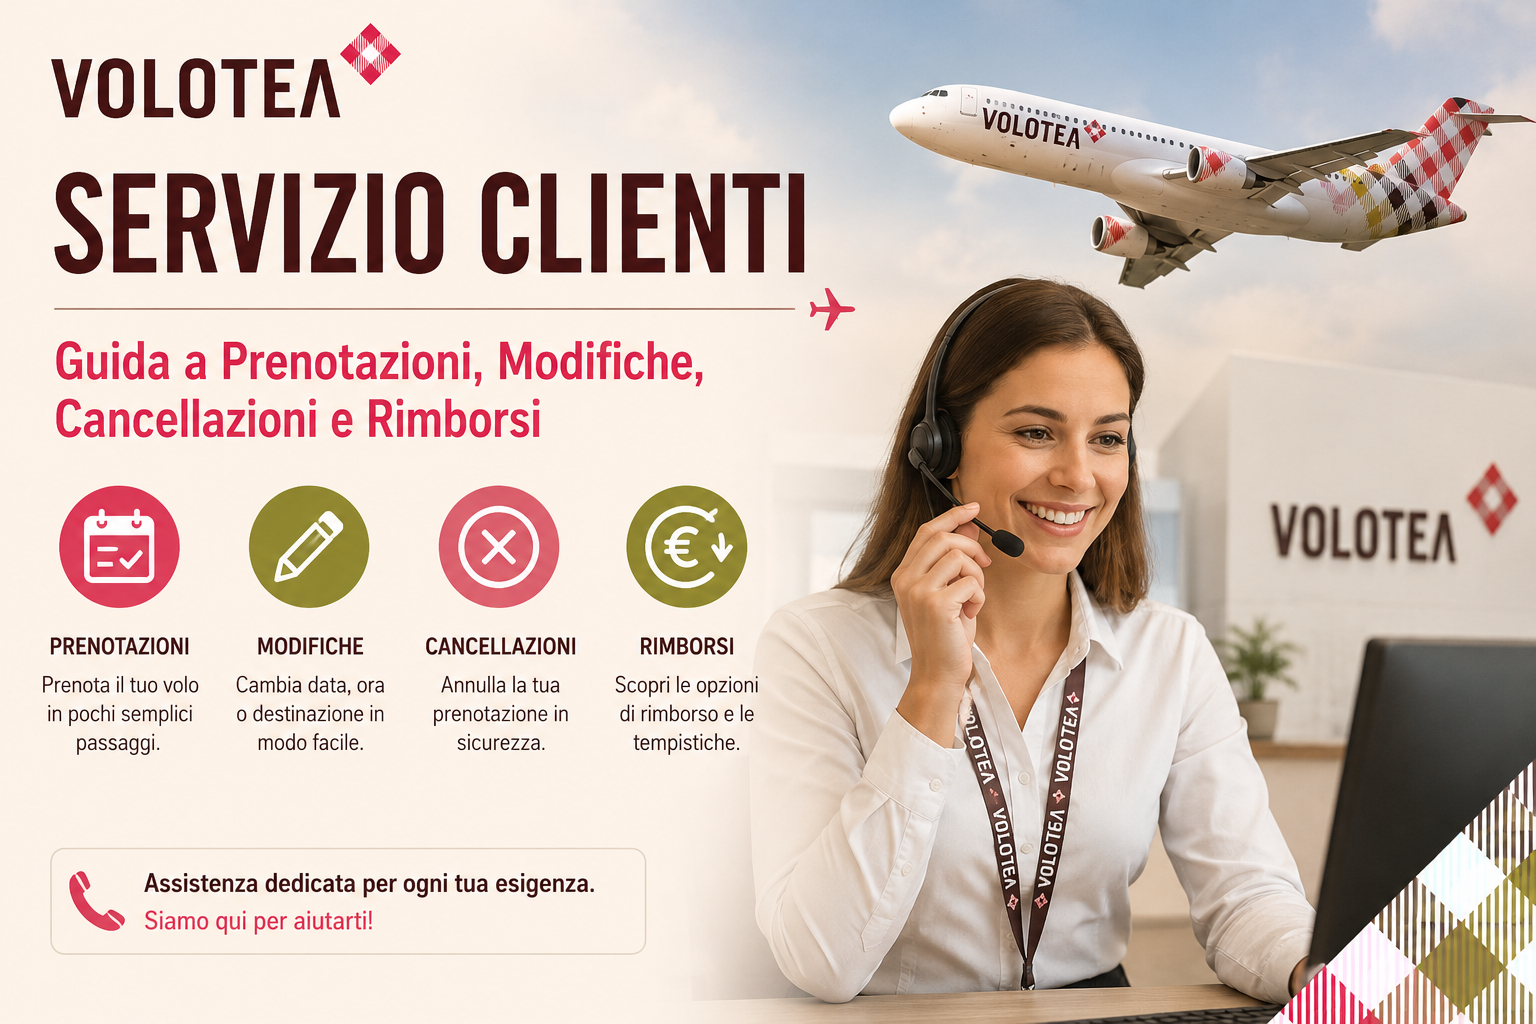
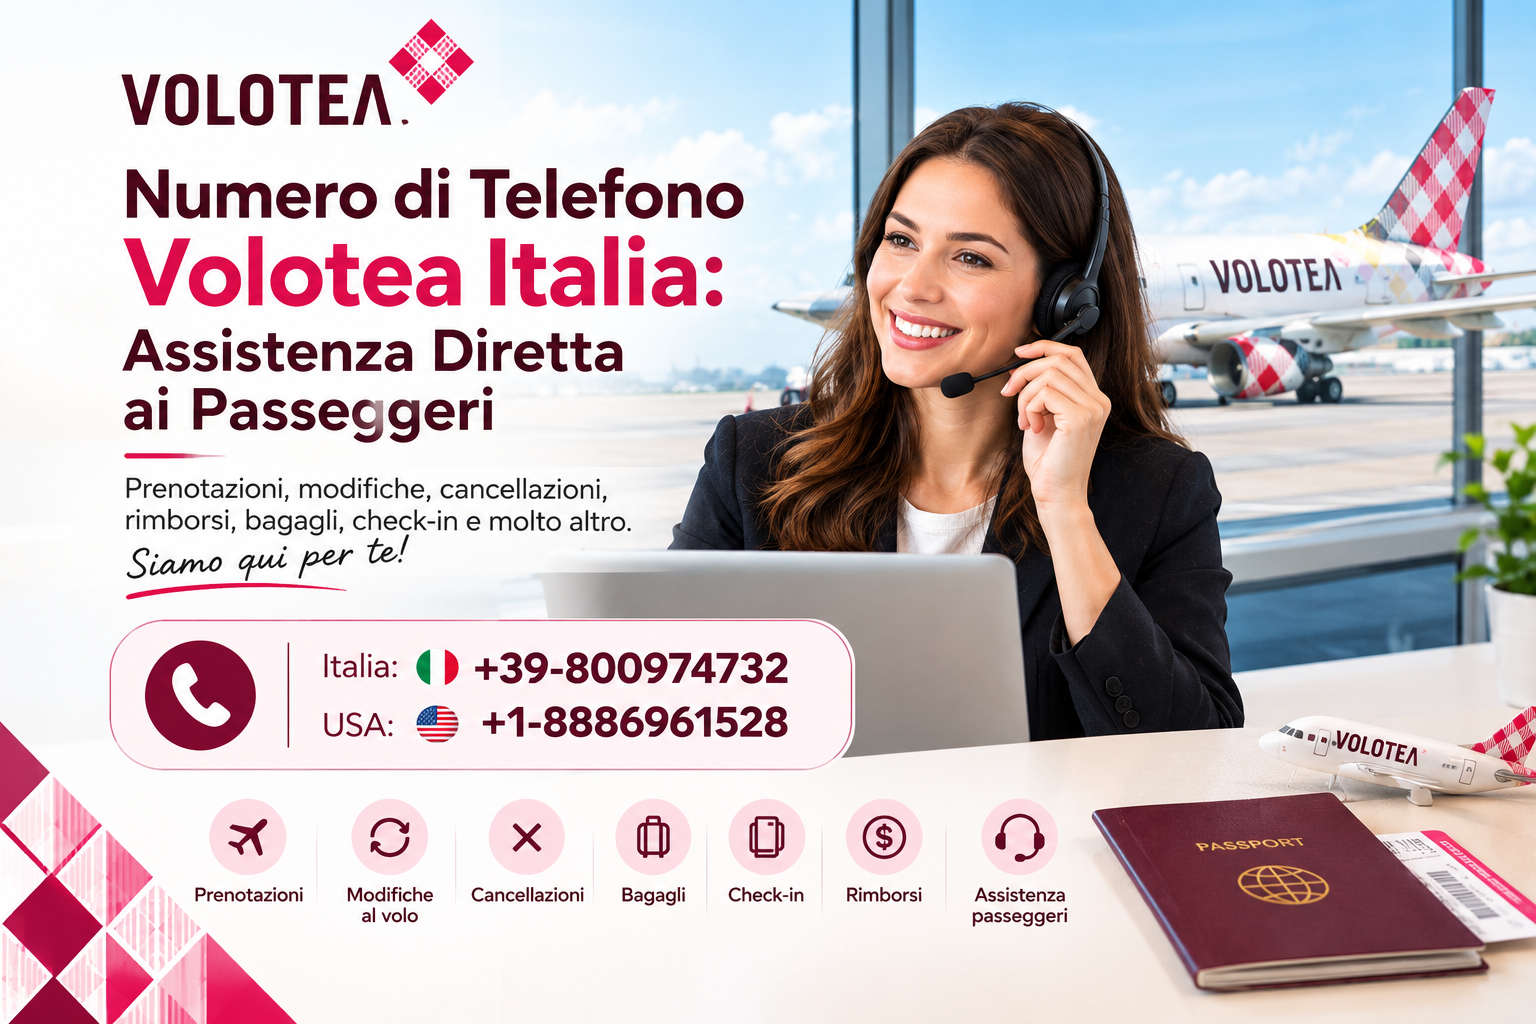
fix

diff --git a/src/data/blog.js b/src/data/blog.js
@@ -17263,6 +17263,281 @@ USA:<a href="tel:+1-8886961528" class="text-blue-600 underline">18886961528</a>(
     featured: true
   },
 
+   {
+    id: 88,
+    slug: "numero-di-telefono-volotea-italia-assistenza-diretta-ai-passeggeri",
+    canonical: "https://www.airlinessupport-desk.com/blog/numero-di-telefono-volotea-italia-assistenza-diretta-ai-passeggeri",
+    title: "Numero di Telefono Volotea Italia: Assistenza Diretta ai Passeggeri",
+    metatitle: "Numero di contatto Volotea Italia | Assistenza Clienti ",
+    metadescription: "Se hai bisogno di parlare con un operatore per prenotare, cambiare o annullare un volo, per chiedere informazioni sul bagaglio, sul check‑in o su altri servizi del viaggio, usa il numero di contatto Volotea Italia. ",
+
+
+    schema:
+    {
+      "@context": "https://schema.org",
+  "@graph": [
+    {
+      "@type": "WebPage",
+      "@id": "https://airlinessupport-desk.com/numero-di-telefono-volotea-italia/",
+      "url": "https://airlinessupport-desk.com/numero-di-telefono-volotea-italia/",
+      "name": "Numero di Telefono Volotea Italia: Assistenza Diretta ai Passeggeri",
+      "description": "Scopri come contattare Volotea Italia per informazioni su prenotazioni, modifiche, cancellazioni, rimborsi, bagagli, check-in e assistenza ai passeggeri.",
+      "isPartOf": {
+        "@type": "WebSite",
+        "@id": "https://airlinessupport-desk.com/#website",
+        "url": "https://airlinessupport-desk.com/",
+        "name": "Airlines Support Desk"
+      },
+      "inLanguage": "it-IT"
+    },
+    {
+      "@type": "Article",
+      "@id": "https://airlinessupport-desk.com/numero-di-telefono-volotea-italia/#article",
+      "headline": "Numero di Telefono Volotea Italia: Assistenza Diretta ai Passeggeri",
+      "description": "Guida al numero di telefono Volotea Italia e alle principali richieste di assistenza relative a prenotazioni, cambi volo, cancellazioni, rimborsi, bagagli e check-in.",
+      "url": "https://airlinessupport-desk.com/numero-di-telefono-volotea-italia/",
+      "inLanguage": "it-IT",
+      "mainEntityOfPage": {
+        "@type": "WebPage",
+        "@id": "https://airlinessupport-desk.com/numero-di-telefono-volotea-italia/"
+      },
+      "publisher": {
+        "@type": "Organization",
+        "name": "Airlines Support Desk",
+        "url": "https://airlinessupport-desk.com/"
+      },
+      "about": {
+        "@type": "Airline",
+        "name": "Volotea"
+      },
+      "keywords": [
+        "numero di telefono Volotea Italia",
+        "Volotea Italia",
+        "assistenza Volotea",
+        "servizio clienti Volotea",
+        "contattare Volotea",
+        "numero Volotea Italia",
+        "assistenza clienti Volotea",
+        "cambio volo Volotea",
+        "cancellazione Volotea",
+        "rimborso Volotea"
+      ]
+    },
+    {
+      "@type": "FAQPage",
+      "@id": "https://airlinessupport-desk.com/numero-di-telefono-volotea-italia/#faq",
+      "mainEntity": [
+        {
+          "@type": "Question",
+          "name": "Qual è il numero di telefono di Volotea Italia?",
+          "acceptedAnswer": {
+            "@type": "Answer",
+            "text": "Secondo le informazioni riportate in questa guida, il numero indicato per Volotea Italia è +39-800974732. Per gli Stati Uniti è indicato +1-8886961528. È consigliabile verificare sempre i dati di contatto e la disponibilità del servizio prima di effettuare una chiamata."
+          }
+        },
+        {
+          "@type": "Question",
+          "name": "C'è la possibilità di contattare Volotea per cambiare la data del volo?",
+          "acceptedAnswer": {
+            "@type": "Answer",
+            "text": "Sì, è possibile richiedere informazioni sulla possibilità di modificare la data del volo. Le condizioni, eventuali costi e possibilità di modifica dipendono dai termini applicabili alla prenotazione."
+          }
+        },
+        {
+          "@type": "Question",
+          "name": "Posso avere aiuto per la cancellazione del volo Volotea?",
+          "acceptedAnswer": {
+            "@type": "Answer",
+            "text": "Sì. Per informazioni sulla cancellazione di una prenotazione Volotea è consigliabile controllare le condizioni del biglietto e verificare le procedure applicabili alla propria prenotazione."
+          }
+        },
+        {
+          "@type": "Question",
+          "name": "Posso avere informazioni su come ottenere un rimborso Volotea?",
+          "acceptedAnswer": {
+            "@type": "Answer",
+            "text": "Sì, è possibile chiedere informazioni sulle condizioni applicabili a una richiesta di rimborso. L'idoneità al rimborso può dipendere dal tipo di biglietto, dalle condizioni tariffarie e dal motivo della richiesta."
+          }
+        },
+        {
+          "@type": "Question",
+          "name": "Quali informazioni dovrei avere quando effettuo una chiamata?",
+          "acceptedAnswer": {
+            "@type": "Answer",
+            "text": "È consigliabile avere a disposizione il codice della prenotazione, il nome completo del passeggero, la data del volo, l'aeroporto di partenza, la destinazione, il numero del volo se disponibile e l'indirizzo e-mail utilizzato per la prenotazione."
+          }
+        },
+        {
+          "@type": "Question",
+          "name": "Il numero americano è valido per le domande relative a Volotea?",
+          "acceptedAnswer": {
+            "@type": "Answer",
+            "text": "In questa guida è indicato il numero +1-8886961528 per gli Stati Uniti. Prima di effettuare la chiamata è consigliabile verificare che il contatto sia appropriato per il tipo di assistenza richiesta."
+          }
+        },
+        {
+          "@type": "Question",
+          "name": "Posso chiedere informazioni sul mio bagaglio?",
+          "acceptedAnswer": {
+            "@type": "Answer",
+            "text": "Sì, è possibile richiedere informazioni relative al bagaglio. È utile avere a disposizione i dettagli della prenotazione e qualsiasi documento o ricevuta collegata al bagaglio."
+          }
+        }
+      ]
+    },
+    {
+      "@type": "BreadcrumbList",
+      "@id": "https://airlinessupport-desk.com/numero-di-telefono-volotea-italia/#breadcrumb",
+      "itemListElement": [
+        {
+          "@type": "ListItem",
+          "position": 1,
+          "name": "Home",
+          "item": "https://airlinessupport-desk.com/"
+        },
+        {
+          "@type": "ListItem",
+          "position": 2,
+          "name": "Numero di Telefono Volotea Italia",
+          "item": "https://airlinessupport-desk.com/numero-di-telefono-volotea-italia/"
+        }
+      ]
+    }
+  ]
+
+    },
+
+
+    excerpt: "Sarebbe meglio avere il codice della prenotazione e tutti i dettagli del viaggio pronti prima di fare la chiamata in quanto questo permetterà di trovare più velocemente la prenotazione e di esporre il motivo della propria richiesta. ",
+
+    content: `
+    <p>Sito web:<a href="https://airlinessupport-desk.com/" class="text-blue-600 underline">https://airlinessupport-desk.com/</a></br>
+    Telephono:<a href="tel:+39-800974732" class="text-blue-600 underline">+39-800974732</a><b>(IT)</b> o <a href="tel:+1-8886961528" class="text-blue-600 underline">+1-8886961528</a><b>(USA)</b> </p>
+  <p>
+Nel caso in cui tu stia andando in viaggio in aereo potresti trovarti nel bisogno di un po' di aiuto prima,durante e dopo il tuo viaggio.La necessità di modificare la tua prenotazione,di chiedere informazioni sul tuo bagaglio,di avere difficoltà con il check-in o di chiedere un rimborso sono solo alcuni dei casi in cui avresti bisogno di cercare informazioni precise.Per questo motivo può rivelarsi utile per te sapere come metterti in contatto con Volotea.Il numero di telefono
+<a href="https://airlinessupport-desk.com/" class="text-blue-600 underline">Volotea</a> Italia potrebbe rivelarsi una delle informazioni più desiderate per te al fine di essere aiutato con la tua prenotazione.
+</p>
+<h2 class="text-2xl font-semibold">Numero di telefono Volotea Italia</h2>
+<p>Numeri di telefono per le persone che cercano aiuto tramite telefono sono i seguenti:
+</p>
+<p>Volotea Italia: <a href="tel:+39-800974732"class="text-blue-600 underline">+39-800974732</a></br>
+Volotea USA: <a href="tel:+1-8886961528"class="text-blue-600 underline">+1-8886961528</a></p>
+<p>Sarebbe meglio avere il codice della prenotazione e tutti i dettagli del viaggio pronti prima di fare la chiamata in quanto questo permetterà di trovare più velocemente la prenotazione e di esporre il motivo della propria richiesta.
+</p>
+<p>Sarebbe inoltre necessario controllare sempre i dati di contatto e le condizioni dell'assistenza prima di intraprendere qualsiasi azione relativa al biglietto.</p>
+<h2 class="text-2xl font-semibold">Quando contattare Volotea?</h2>
+<p>Esistono varie situazioni che possono far necessitare ad un viaggiatore di un aiuto.Può essere difficile sapere come procedere soprattutto nel caso di una modifica di una prenotazione già effettuata.</p>
+<p>
+Le problematiche più frequenti sono:
+</p>
+<ul class="list-disc pl-6">
+<li>Informazioni sulla prenotazione</li>
+<li>Modifica della data di un volo
+</li>
+<li>Modifica dell'orario di un volo
+</li>
+<li>Annullamento di una prenotazione
+</li>
+<li>Informazioni sui rimborsi
+</li>
+<li>Assistenza per il bagaglio
+</li>
+<li>Problemi con il check-in</li>
+<li>Informazioni sui servizi aggiuntivi</li>
+<li>Chiarezza sui termini del biglietto
+</li>
+<li>Assistenza per una prenotazione esistente</li>
+</ul>
+<p>Se contattate Volotea sarà utile indicare subito che tipo di aiuto avete bisogno.</p>
+<h2 class="text-2xl font-semibold">
+Come prepararsi prima di chiamare il servizio di assistenza</h2>
+<p>Sarebbe utile se potesse preparare in anticipo tutti i dettagli riguardanti il suo viaggio. Il codice di prenotazione è particolarmente utile in quanto gli consente di individuare più facilmente il suo volo.Prima di effettuare una chiamata quindi è consigliato che abbia:</p>
+<ul class="list-disc pl-6">
+<li>il codice di prenotazione
+</li>
+<li>il nome completo del passeggero
+</li>
+<li>la data del volo
+</li>
+<li>l'aeroporto di partenza
+</li>
+<li>la destinazione</li>
+<li>il numero del volo(se possibile)</li>
+<li>l'indirizzo e-mail utilizzato al momento della prenotazione</li>
+<li>e qualsiasi documento o ricevuta collegata al suo viaggio.
+</li>
+
+</ul>
+<p>In caso di richiesta di modifica sarebbe utile se potesse specificare chiaramente che tipo di modifiche intende apportare. Per esempio se intende cambiare la data del suo viaggio specifici la nuova data.</p>
+<h2 class="text-2xl font-semibold">
+Assistenza Volotea per modificare un volo</h2>
+<p>Un cambio di volo è essenziale in alcune situazioni in cui si verificano dei cambiamenti nei piani di viaggio.La possibilità di avere il proprio volo cambiato insieme alle spese varia in base ai termini che circondano la tua prenotazione.Nel caso tu debba cambiare un volo con Volotea è importante che prima di farlo tu capisca i termini che circondano la tua prenotazione.Ci possono essere diversi modi in cui questo può essere fatto a seconda di come è stata effettuata la tua prenotazione.</p>
+<h2 class="text-2xl font-semibold">Cancellazione della prenotazione Volotea</h2>
+<p>Un altro tipo di richiesta che spesso si presenta è quella della cancellazione di un volo. È necessario conoscere i termini in caso di cancellazione prima di procedere con la cancellazione della prenotazione.Non ogni prenotazione avrà lo stesso insieme di termini associati ad essa. In questo modo se si intende cancellare una prenotazione per un volo Volotea è meglio controllare i termini del proprio biglietto e come procedere con il processo di cancellazione</p>
+<h2 class="text-2xl font-semibold">Informazioni sui rimborsi</h2>
+<p>La richiesta di rimborso è un altro motivo per contattare <a href="https://airlinessupport-desk.com/" class="text-blue-600 underline">Volotea</a> Italia al telefono. I requisiti per il rimborso possono variare a seconda della categoria del biglietto, dei termini del prezzo e del motivo della richiesta. Pertanto non è consigliato aspettarsi un rimborso ogni volta che si cancella una prenotazione di volo. Per capire se avete la possibilità di ottenere un rimborso raccogliete informazioni sulla vostra prenotazione e ottenete delle risposte alle vostre domande.</p>
+<h2 class="text-2xl font-semibold">Assistenza Volotea per bagagli e check-in</h2>
+<p>Il bagaglio è uno dei principali problemi che gli viaggiatori devono affrontare. Potresti avere delle domande sul tuo limite di bagaglio,sul bagaglio in più o su qualsiasi altra procedura se dovessero sorgere dei problemi. Anche il check-in potrebbe essere confuso soprattutto se si sta facendo il primo viaggio o si hanno problemi con la propria prenotazione.In questo caso avere tutte le informazioni sul volo ti sarà di aiuto.</p>
+<h2 class="text-2xl font-semibold">Perché avere a disposizione il numero di telefono Volotea?</h2>
+<p>Un numero di contatto telefonico può rivelarsi utile quando si ha bisogno di accedere immediatamente ad informazioni riguardanti il proprio viaggio.Invece di cercare varie informazioni su ogni situazione che possa presentarsi per il passeggero di fornire le informazioni sulla prenotazione e rendere chiari i propri bisogni. I numeri di contatto possono essere particolarmente utili per rispondere a tutte le domande riguardanti le prenotazioni,le modifiche,le cancellazioni,i bagagli e altre domande sul viaggio.</p>
+<p>Numeri di contatto:</p>
+<p>Volotea Italia:<a href="tel:+39-800974732"class="text-blue-600 underline">+39-800974732</a></br>
+Volotea USA:<a href="tel:+1-8886961528"class="text-blue-600 underline">+1-8886961528</a></p>
+<p>Sarebbe meglio avere il codice della prenotazione e tutti i dettagli del viaggio pronti prima di fare la chiamata in quanto questo permetterà di trovare più velocemente la prenotazione e di esporre il motivo della propria richiesta.
+</p>
+<p>Si raccomanda sempre di verificare la disponibilità del servizio prima di chiamare.
+</p>
+<h2 class="text-2xl font-semibold">Consigli per una richiesta di assistenza più efficace</h2>
+<p>Per assicurarsi di avere informazioni migliori è sempre importante che tu descriva il tuo problema in modo chiaro.Non dare informazioni inutili ma piuttosto dare solo le informazioni che possono aiutare a risolvere il problema in questione.Se per esempio si desidera modificare il proprio volo,si assicuri di indicare la data e le modifiche che si vorrebbero apportare.Nel caso si desideri ricevere maggiori informazioni sul rimborso allora si assicuri di chiarire che si vuole conoscere le condizioni del rimborso per la propria prenotazione specifica.</p>
+<h2 class="text-2xl font-semibold">Domande frequenti sul numero di telefono Volotea Italia</h2>
+<p><b>Qual è il numero di telefono di Volotea Italia?</b></p>
+<p> Il numero di telefono di Volotea Italia è il <a href="tel:+39-800974732"class="text-blue-600 underline">+39-800974732</a>. Per gli Stati Uniti il numero è l' <a href="tel:+1-8886961528"class="text-blue-600 underline">+1-8886961528</a>.</p>
+<p><b> C'è la possibilità di contattare Volotea per cambiare la data del volo? </b></p>
+<p>Si, è possibile chiedere informazioni sulla possibilità di cambiare la data del volo. Le condizioni dipenderanno dal tuo biglietto.</p>
+<p><b> Posso avere aiuto per la cancellazione del volo? </b></p>
+<p>Si. Se desideri cancellare la tua prenotazione è consigliato che tu controlli le condizioni relative al tuo biglietto.</p>
+<p><b> Posso avere informazioni su come ottenere un rimborso?</b></p>
+<p> Si, è possibile chiedere informazioni sulle condizioni per ottenere il rimborso del costo del volo.</p>
+<p><b>Quali informazioni dovrei avere quando effettuo una chiamata?</b></p>
+<p>Si consiglia di avere il numero della prenotazione,il nome del passeggero,la data del volo,la rotta e il numero del volo (se conosciuto).</p>
+<p><b>Il numero americano è valido per le domande relative a Volotea?</b></p>
+<p>Il numero fornito in questa guida per gli Stati Uniti è il 18886961528.Tuttavia è meglio verificare se il contatto è appropriato alla mia domanda prima di effettuare la chiamata.</p>
+<p><b>Posso chiedere informazioni sul mio bagaglio?</b></p>
+<p>Certo,per un'informazione relativa al bagaglio è utile avere a portata di mano tutti i dettagli della prenotazione e qualsiasi documento relativo al bagaglio.</p>
+<h2 class="text-2xl font-semibold">Conclusione</h2>
+<p>Avere il numero di contatto <a href="https://airlinessupport-desk.com/" class="text-blue-600 underline">Volotea</a>Italia sarà utile nel caso in cui si abbia bisogno di qualsiasi tipo di aiuto durante un viaggio. Sia che si tratti di un cambio, di una cancellazione, di un rimborso, di problemi con i bagagli o di problemi al momento del check-in è sempre meglio avere le informazioni sul proprio prenotazione in anticipo.
+</p>
+<p>Numeri utili:</p>
+<p>Italia:<a href="tel:+39-800974732"class="text-blue-600 underline">+39-800974732</a></br>
+ USA:<a href="tel:+1-8886961528"class="text-blue-600 underline">+1-8886961528</a></p>
+ <p>
+Ricordate sempre i termini e le condizioni relative alla vostra prenotazione e quelli offerti da Volotea.
+</p>
+<p>Sito web:<a href="https://airlinessupport-desk.com/" class="text-blue-600 underline">https://airlinessupport-desk.com/</a></br>
+    Telephono:<a href="tel:+39-800974732" class="text-blue-600 underline">+39-800974732</a><b>(IT)</b> o <a href="tel:+1-8886961528" class="text-blue-600 underline">+1-8886961528</a><b>(USA)</b> </p>
+
+
+
+
+
+
+
+
+
+
+
+
+`,
+
+    category: "Travelocity",
+    image: "/images/Soniya/volotea.png",
+    author: "Rajshree",
+    date: "September 21, 2026",
+    readingTime: "5 min read",
+    featured: true
+  },
+
+
 
 
 
